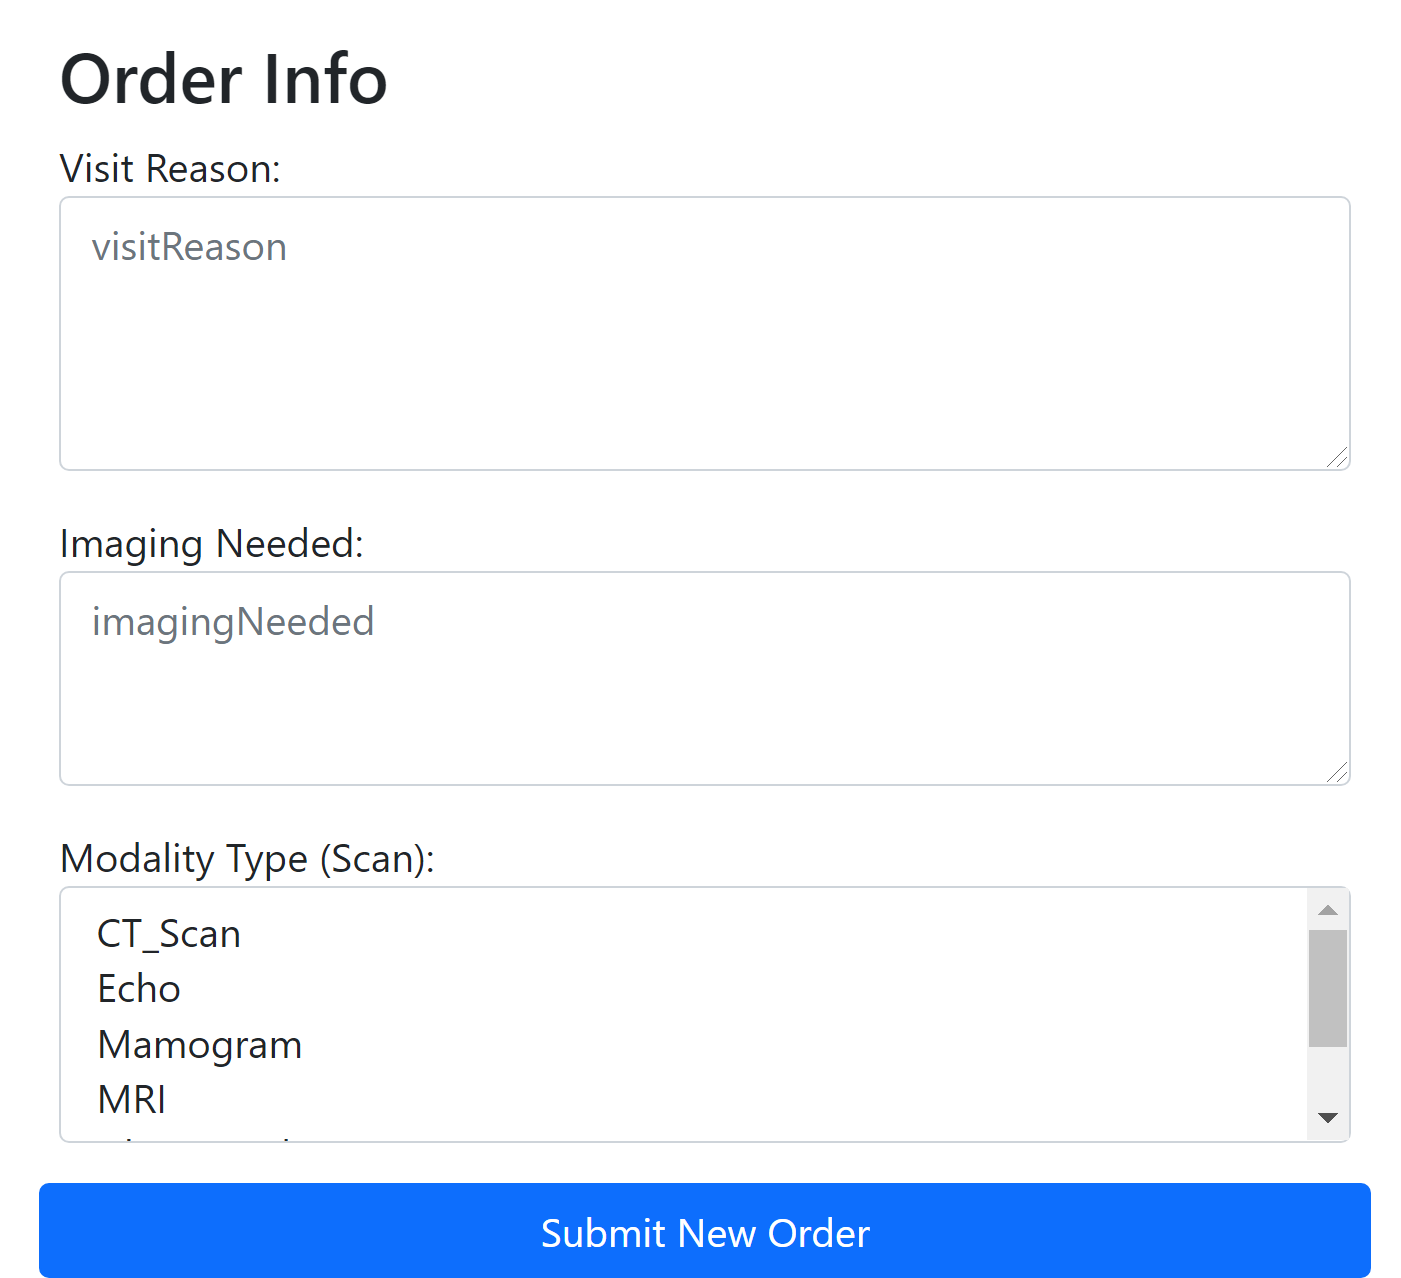
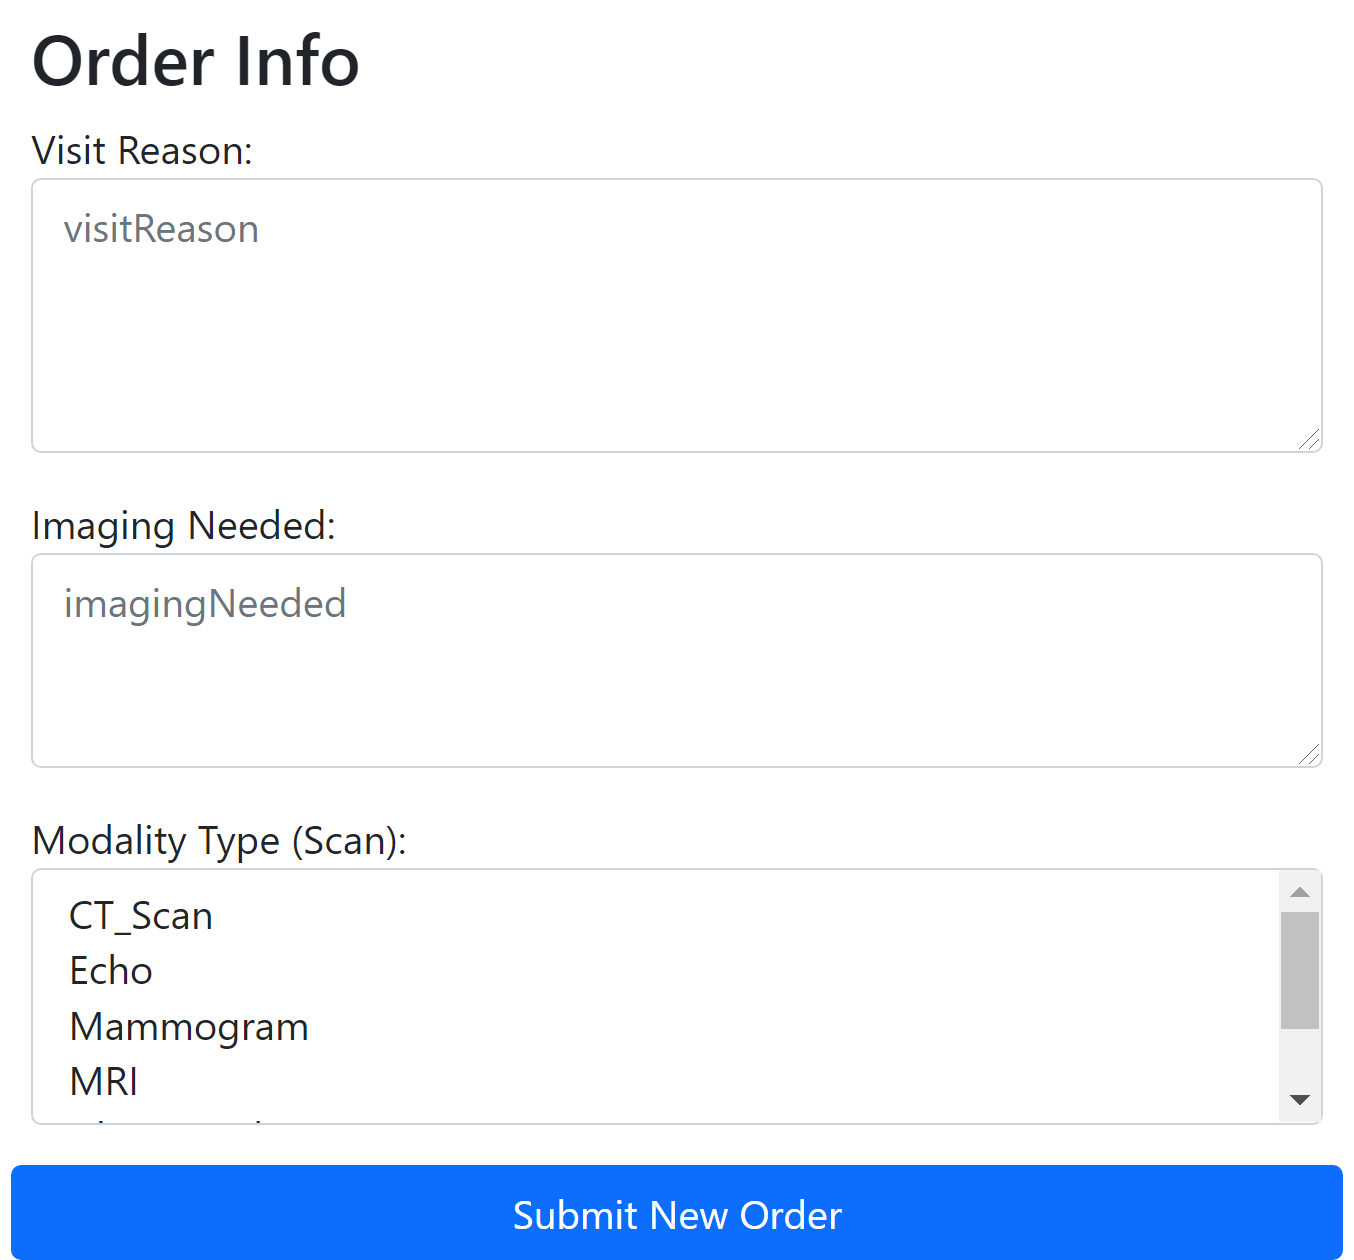
fixed Spelling error

diff --git a/src/main/java/com/example/illustris/order/Modality.java b/src/main/java/com/example/illustris/order/Modality.java
@@ -4,7 +4,7 @@ public enum Modality {
     
     CT_Scan,
     Echo,
-    Mamogram,
+    Mammogram,
     MRI,
     Ultrasound,
     XRay,
